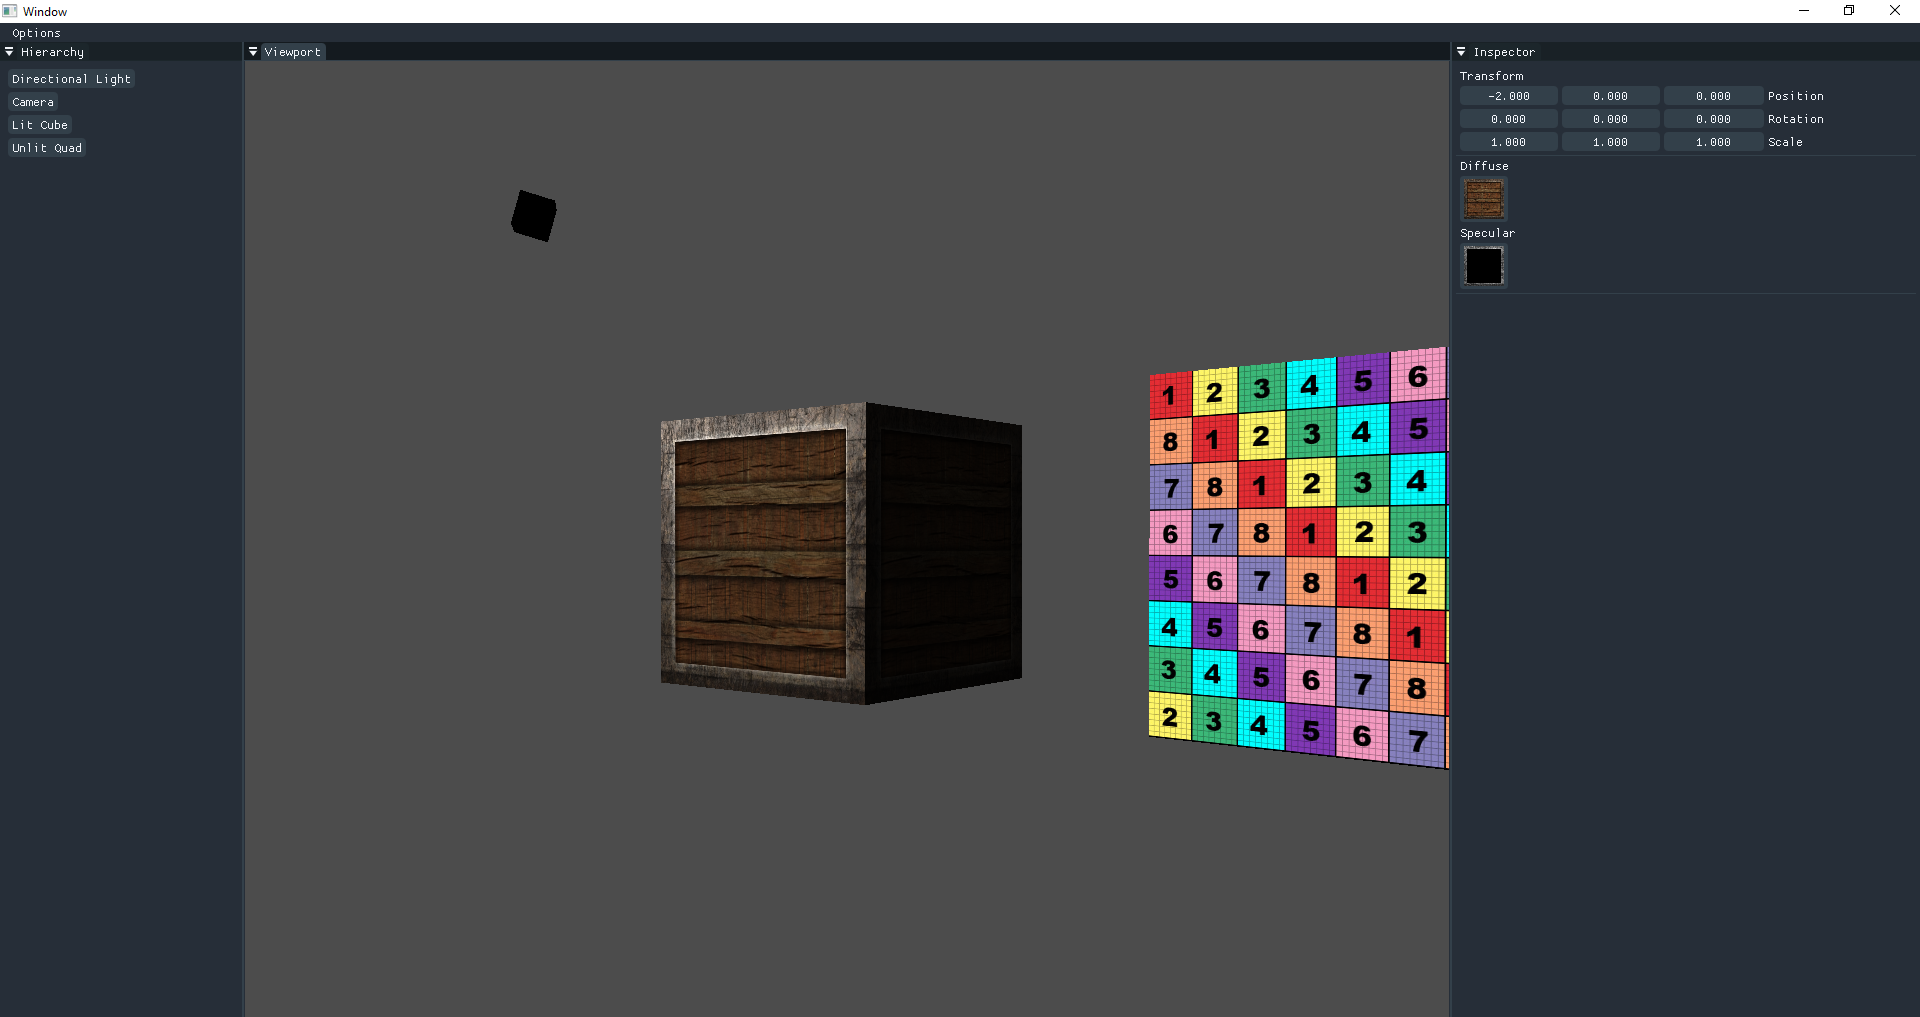
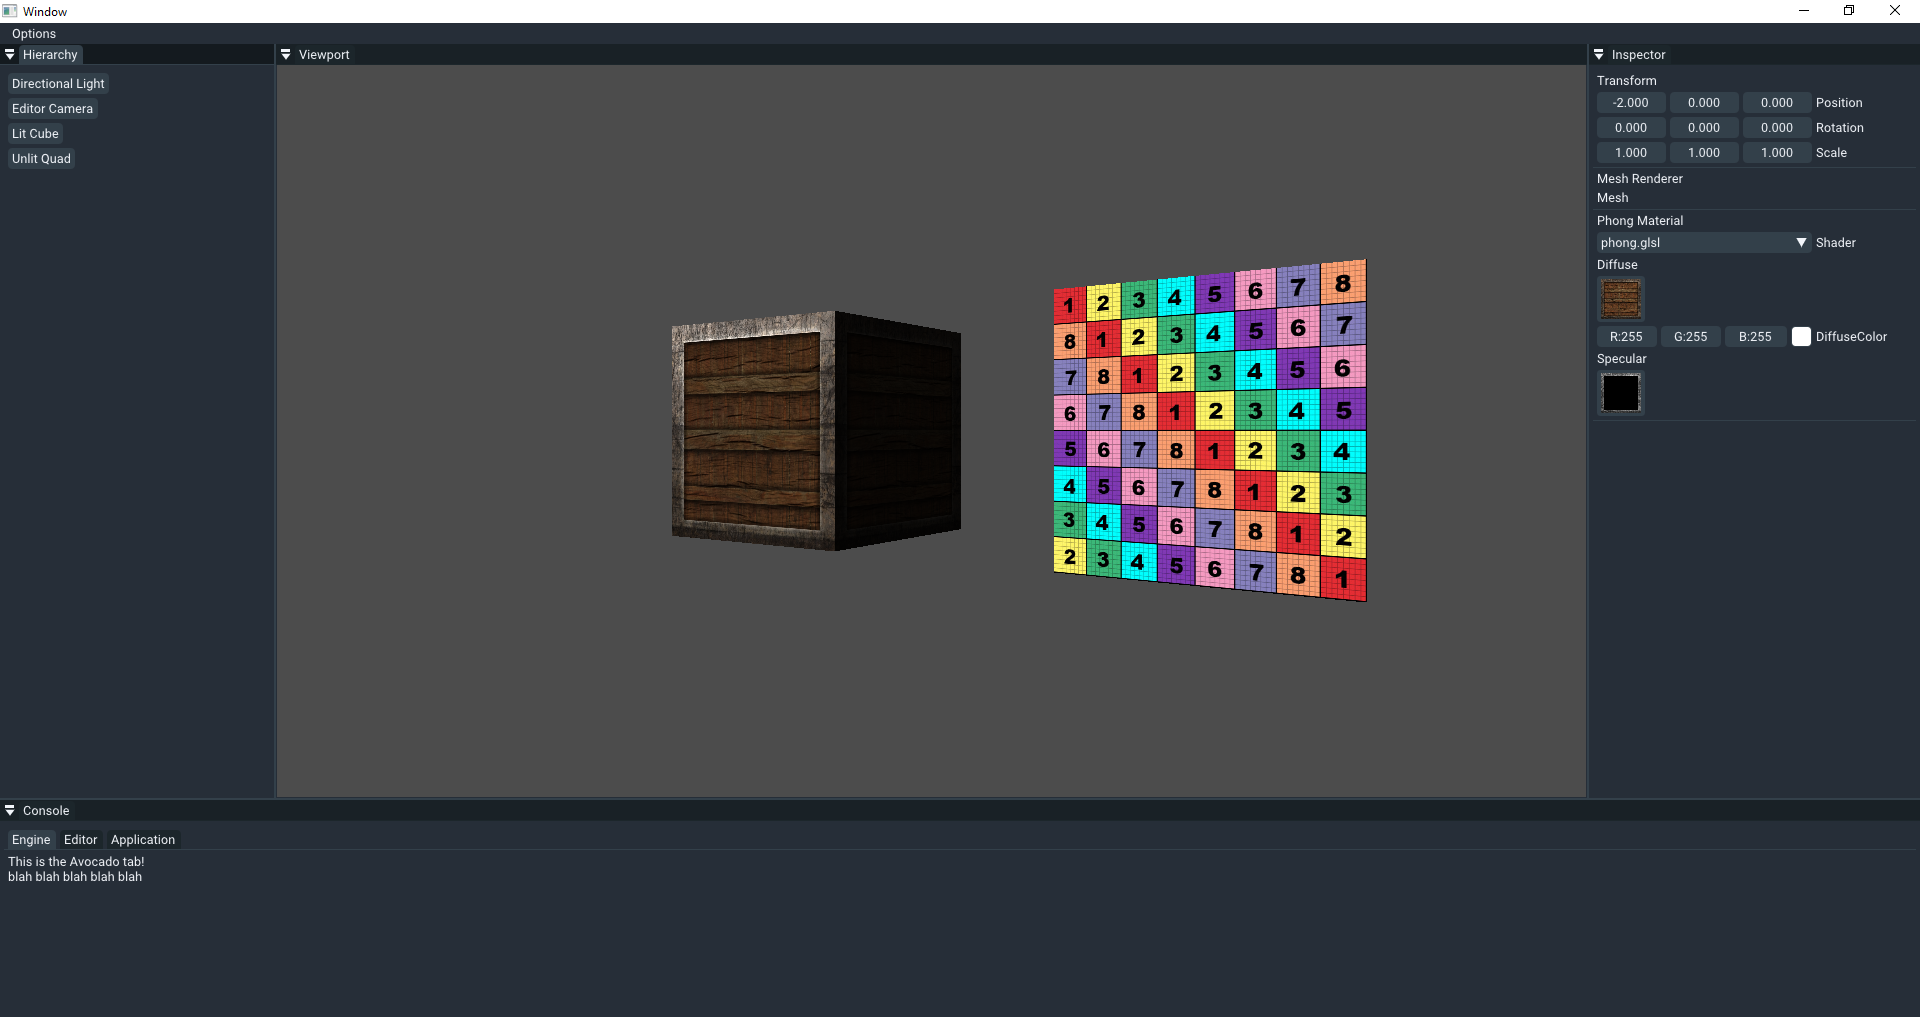
Change Shader associated with material

diff --git a/DuskEditor/src/Panels/InspectorPanel.cpp b/DuskEditor/src/Panels/InspectorPanel.cpp
@@ -38,8 +38,30 @@ namespace DuskEngine
 				ImGui::Text("Mesh");
 				
 				ImGui::Separator();
-
 				ImGui::Text(mesh.material->GetName().c_str());
+
+				const char* shaders[] = { "phong.glsl", "simpleColor.glsl", "simpleTexture.glsl" };
+				static int item_current_idx = 0; // Here we store our selection data as an index.
+				const char* combo_label = shaders[item_current_idx];  // Label to preview before opening the combo (technically it could be anything)
+				if (ImGui::BeginCombo("Shader", combo_label))
+				{
+					for (int n = 0; n < IM_ARRAYSIZE(shaders); n++)
+					{
+						const bool is_selected = (item_current_idx == n);
+						if (ImGui::Selectable(shaders[n], is_selected))
+						{
+							item_current_idx = n;
+							std::string s = shaders[n];
+							mesh.material = MakeRef<Material>(Shader::Create("res/shaders/" + s));
+							mesh.material->UniformsDefaultValue();
+						}
+
+						if (is_selected)
+							ImGui::SetItemDefaultFocus();
+					}
+					ImGui::EndCombo();
+				}
+
 				for(auto uniform : mesh.material->m_Uniforms)
 				{
 					if(uniform.Type == UniformType::Vec3)

diff --git a/DuskEngine/src/Core/Renderer/Resources/Material.cpp b/DuskEngine/src/Core/Renderer/Resources/Material.cpp
@@ -5,7 +5,7 @@
 
 namespace DuskEngine
 {
-	Material::Material(std::shared_ptr<Shader>& shader, const std::string& name)
+	Material::Material(Ref<Shader>& shader, const std::string& name)
 		:m_Shader(shader)
 	{
 		if (name.empty())
@@ -55,7 +55,7 @@ namespace DuskEngine
 	void Material::SetFloat(const std::string& name, float f)
 	{
 		if (m_UniformsMap.find(name) != m_UniformsMap.end())
-			m_UniformsMap[name]->Data = std::make_shared<float>(f);
+			m_UniformsMap[name]->Data = MakeRef<float>(f);
 		else
 			LOG("Uniform doesnt exist")
 	}
@@ -91,6 +91,25 @@ namespace DuskEngine
 		for (auto& uniform : m_Uniforms)
 		{
 			m_UniformsMap[uniform.Name] = &uniform;
+		}
+
+		UniformsDefaultValue();
+	}
+
+	void Material::UniformsDefaultValue()
+	{
+		for (auto& uniform : m_Uniforms)
+		{
+			// switch uniform type
+			switch (uniform.Type)
+			{
+			case UniformType::Vec3:
+				uniform.Data = MakeRef<glm::vec3>(1.0);
+				break;
+			case UniformType::Texture:
+				uniform.Data = Texture::Create("res/textures/white.png");
+				break;
+			}
 		}
 	}
 }

diff --git a/DuskEngine/src/Core/Renderer/Resources/Material.h b/DuskEngine/src/Core/Renderer/Resources/Material.h
@@ -26,7 +26,7 @@ namespace DuskEngine
 	{
 	public:
 		Material() = default;
-		Material(std::shared_ptr<Shader>& shader, const std::string& name = "");
+		Material(Ref<Shader>& shader, const std::string& name = "");
 		Material(const std::string& shaderPath, const std::string& name = "");
 		~Material();
 		void UploadUniforms();
@@ -36,11 +36,12 @@ namespace DuskEngine
 		void SetVec3(const std::string& name, glm::vec3& v);
 		void SetVec4(const std::string& name, glm::vec4& v);
 		void SetTexture(const std::string& name, Ref<Texture>& texture);
-
+		
 		const std::string& GetName() const { return m_Name; }
+		void UniformsDefaultValue();
 	private:
 		void CreateUniforms();
-		std::shared_ptr<Shader> m_Shader;
+		Ref<Shader> m_Shader;
 		std::string m_Name;
 
 		// Map is for direct access to set uniform values

diff --git a/DuskEditor/src/EditorLayer.cpp b/DuskEditor/src/EditorLayer.cpp
@@ -29,7 +29,7 @@ namespace DuskEngine
 
 		m_Scene = MakeRef<Scene>();
 
-		Ref<Material> cubeMaterial = MakeRef<Material>(Shader::Create("res/shaders/phong.glsl"), "Phong-Material");
+		Ref<Material> cubeMaterial = MakeRef<Material>(Shader::Create("res/shaders/phong.glsl"), "Phong Material");
 		Ref<Material> quadMaterial = MakeRef<Material>(Shader::Create("res/shaders/simpleTexture.glsl"));
 		cubeMaterial->SetTexture("Diffuse", Texture::Create("res/textures/diffuse.png"));
 		cubeMaterial->SetTexture("Specular", Texture::Create("res/textures/specular.png"));
